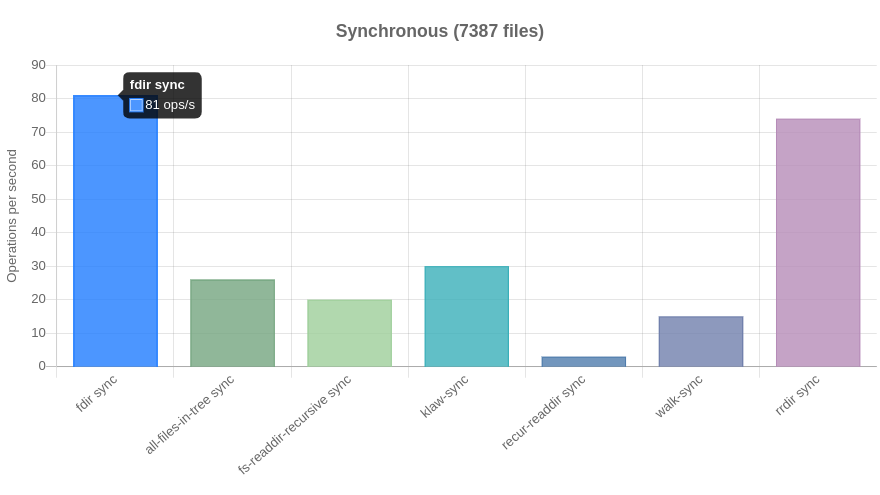
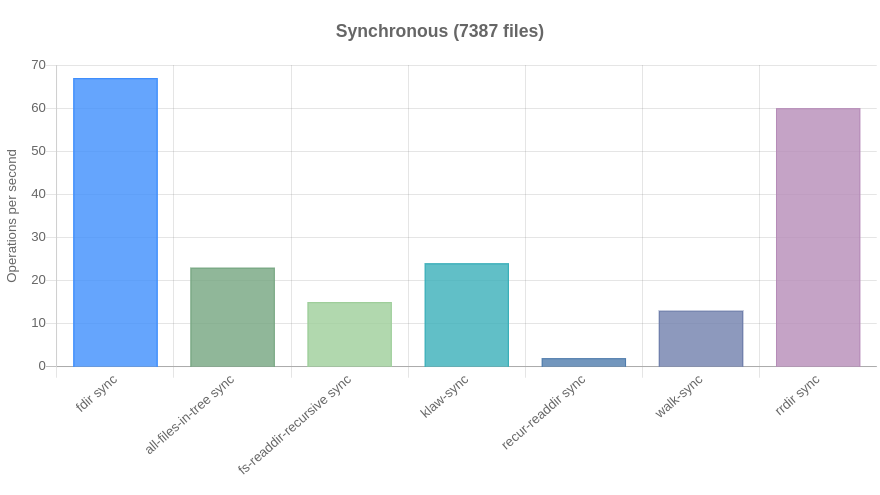
chore: update benchmarks

diff --git a/README.md b/README.md
@@ -73,6 +73,11 @@ $ yarn benchmark
 **Notes:**
 
 - Some people asked that I benchmark `no-op` (without options) version of `fdir`. I did and found no performance difference. The results were identical. (I didn't include it here as it wasn't anything special.)
+- Some other people were doubtful about the authenticity of these results due to _frequency scaling_, _process overload_, _disk warmup_ etc. So I have updated the benchmark with new results that should resolve all those doubts. Here's the process I followed:
+  - Hard shutdown the laptop (a couple of times just to be sure) to clear disk, ram cache etc.
+  - Login directly to a TTY (avoiding any unnecessary process from starting).
+  - Run the benchmark
+- Alright, I will say it as it is. I am not an expert at benchmarking so feel free to advise me as to the correct way of doing this.
 
 ### Node v13.11.0:
 
